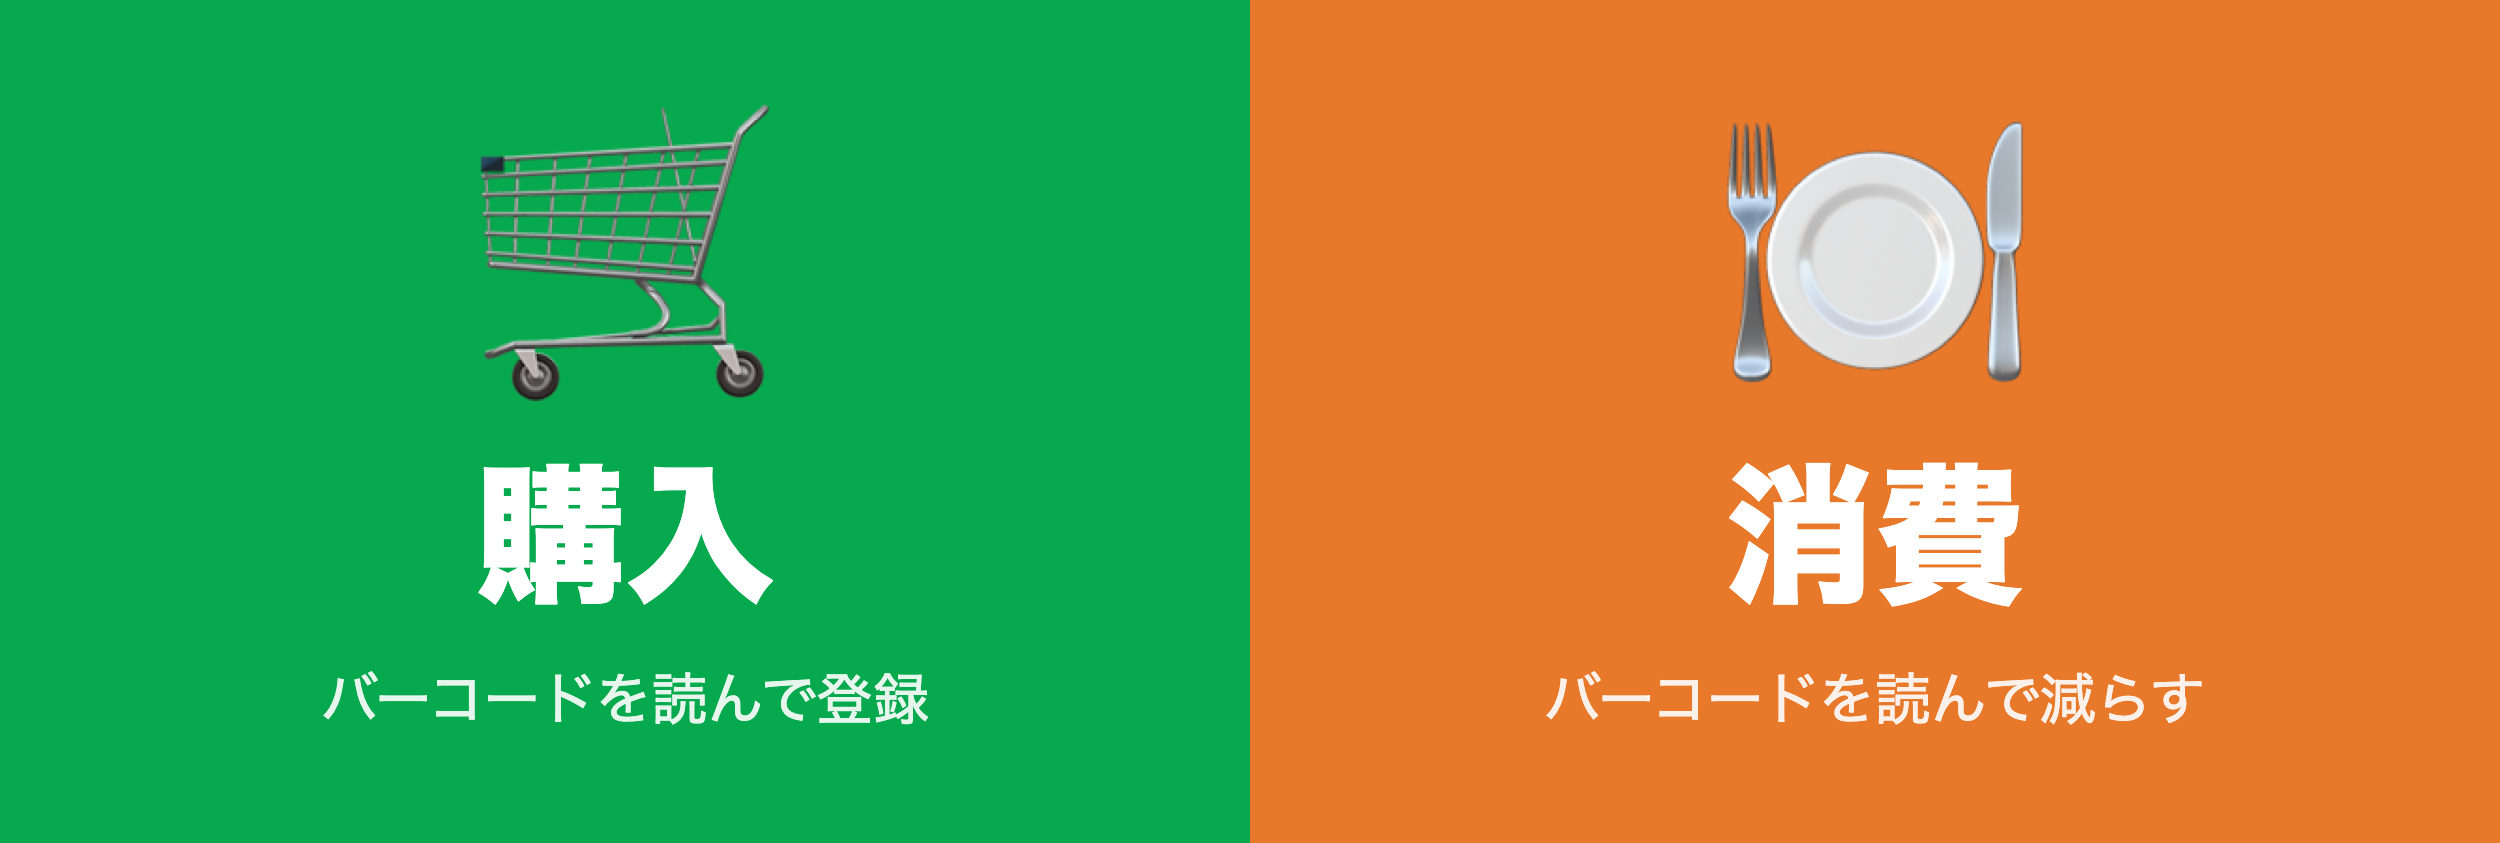
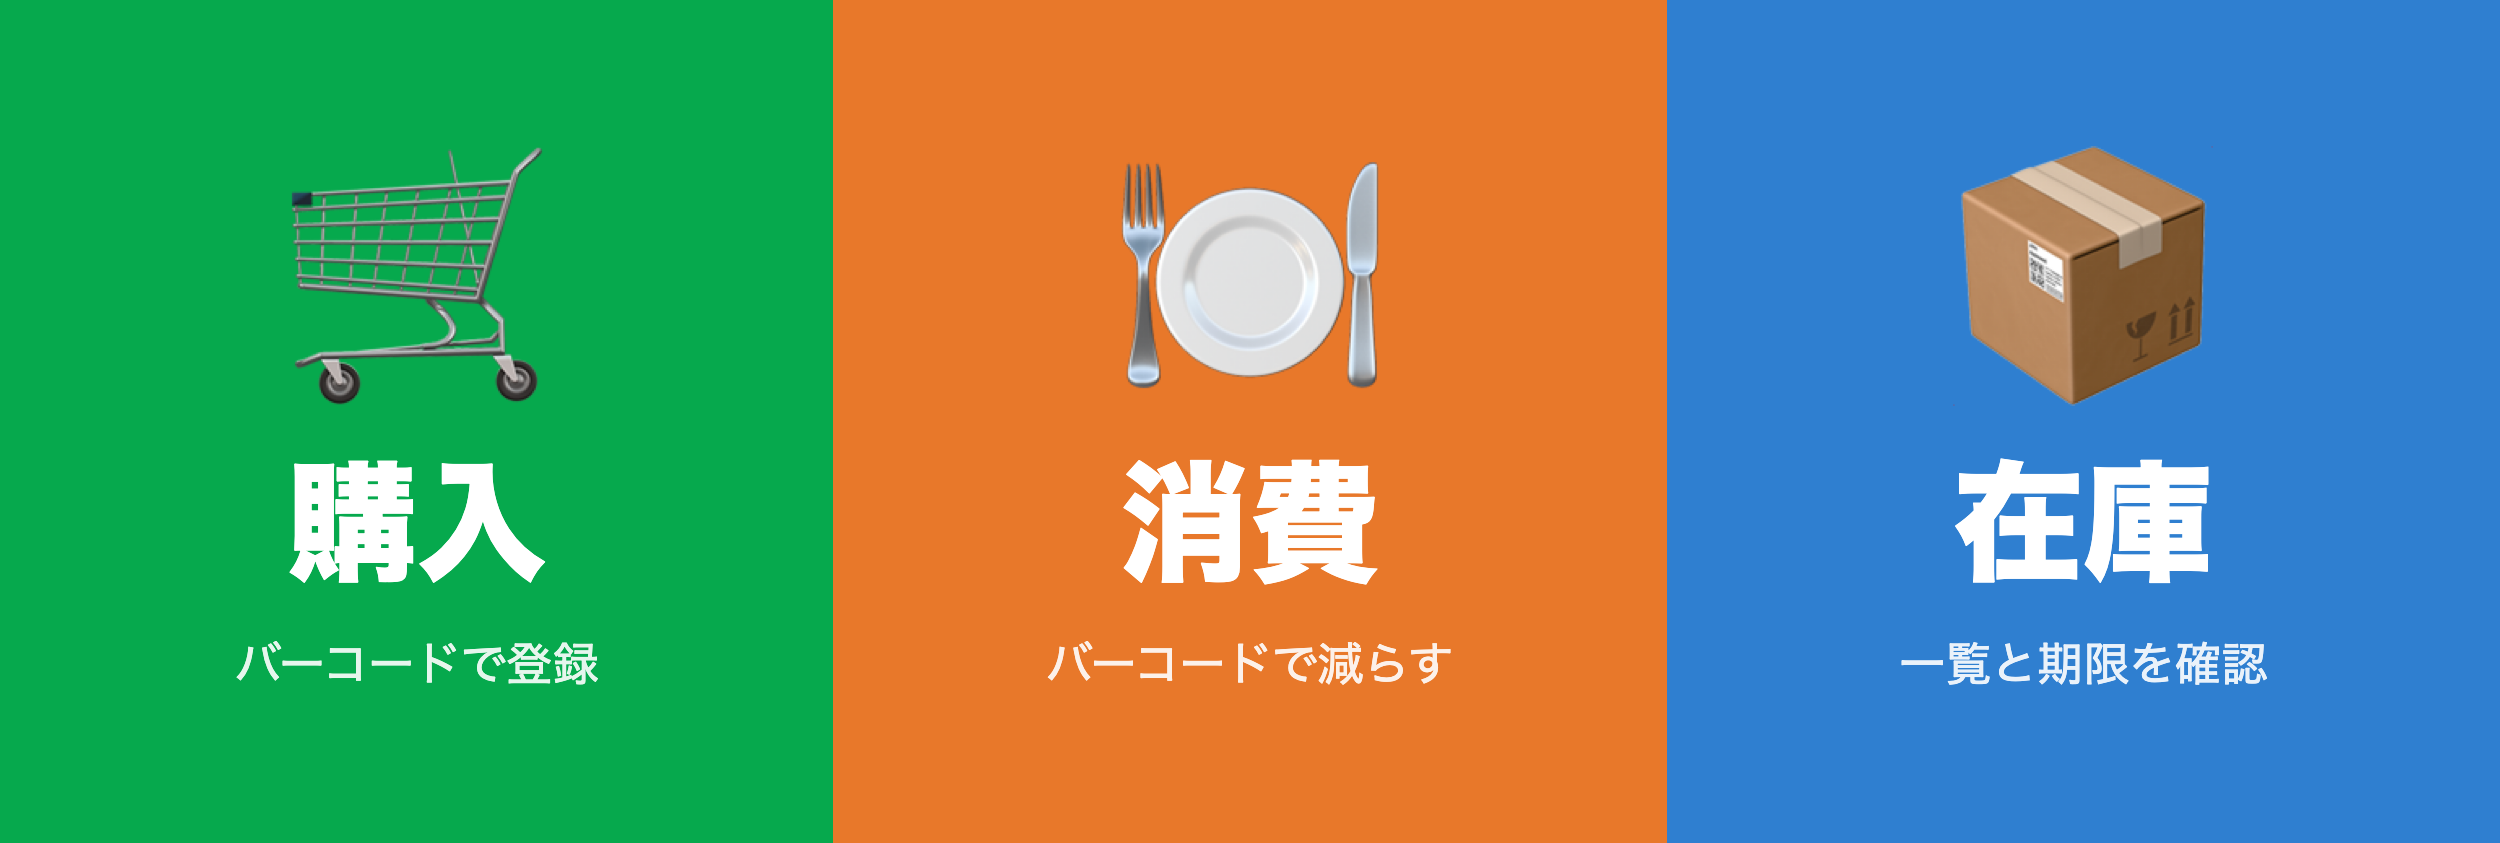
在庫一覧タブを追加(期限の近い順・絞り込み)、リッチメニューを3ボタン化

diff --git a/app.js b/app.js
@@ -2,7 +2,7 @@
   'use strict';
   var CFG = window.HJ_CONFIG;
   var $ = function (id) { return document.getElementById(id); };
-  var VIEWS = ['scanView', 'buyView', 'useView', 'doneView', 'errView'];
+  var VIEWS = ['scanView', 'buyView', 'useView', 'stockView', 'doneView', 'errView'];
 
   var mode = 'buy';
   var handling = false;
@@ -306,6 +306,40 @@
     });
   }
 
+  // ---------- 在庫一覧 ----------
+
+  function today() {
+    var d = new Date();
+    return d.getFullYear() + '/' + ('0' + (d.getMonth() + 1)).slice(-2) + '/' + ('0' + d.getDate()).slice(-2);
+  }
+
+  function renderStock() {
+    var q = norm($('stockSearch').value);
+    var t = today();
+    var limit = new Date(); limit.setDate(limit.getDate() + 30);
+    var soon = limit.getFullYear() + '/' + ('0' + (limit.getMonth() + 1)).slice(-2) + '/' + ('0' + limit.getDate()).slice(-2);
+    var list = items.filter(function (it) { return it.total > 0 && (!q || norm(it.name).indexOf(q) >= 0); })
+      .sort(function (a, b) { return a.lots[0].expiry < b.lots[0].expiry ? -1 : a.lots[0].expiry > b.lots[0].expiry ? 1 : 0; });
+    var sum = list.reduce(function (n, it) { return n + it.total; }, 0);
+    $('stockSummary').textContent = list.length + '品目・合計' + sum + '個(期限の近い順)';
+    $('stockList').innerHTML = list.map(function (it) {
+      return '<div class="stock"><div class="top"><span class="nm">' + esc(it.name) + '</span><span class="tt">' + it.total + '個</span></div>' +
+        it.lots.map(function (l) {
+          var cls = l.expiry < t ? ' over' : l.expiry <= soon ? ' soon' : '';
+          var tag = l.expiry < t ? '期限切れ ' : '';
+          return '<div class="lot' + cls + '"><span>' + tag + esc(l.expiry) + '</span><span>' + l.count + '個</span></div>';
+        }).join('') + '</div>';
+    }).join('') || '<div class="hint">該当する在庫はありません</div>';
+  }
+
+  function openStock() {
+    stopScan();
+    show('stockView');
+    $('stockSummary').textContent = '読み込み中…';
+    $('stockList').innerHTML = '';
+    loadItems().then(renderStock);
+  }
+
   // ---------- 共通 ----------
 
   function esc(s) {
@@ -331,8 +365,9 @@
     mode = m;
     $('tabBuy').classList.toggle('on', m === 'buy');
     $('tabUse').classList.toggle('on', m === 'use');
+    $('tabStock').classList.toggle('on', m === 'stock');
     stopScan();
-    startScan();
+    if (m === 'stock') openStock(); else startScan();
   }
 
   function closeApp() {
@@ -345,12 +380,14 @@
     if (!m && q.get('liff.state')) {
       m = new URLSearchParams(q.get('liff.state').replace(/^[^?]*\?/, '')).get('mode');
     }
-    return m === 'use' ? 'use' : 'buy';
+    return m === 'use' || m === 'stock' ? m : 'buy';
   }
 
   function bind() {
     $('tabBuy').onclick = function () { setMode('buy'); };
     $('tabUse').onclick = function () { setMode('use'); };
+    $('tabStock').onclick = function () { setMode('stock'); };
+    $('stockSearch').addEventListener('input', renderStock);
     $('manualBtn').onclick = function () {
       var code = $('manualJan').value.replace(/\D/g, '');
       if (!validJan(code)) return alert('JANコードが正しくありません(8/12/13桁)');

diff --git a/index.html b/index.html
@@ -41,6 +41,12 @@
   .sug button { display:flex; justify-content:space-between; gap:8px; width:100%; padding:12px; border:0; border-top:1px solid var(--line); background:#fff; font-size:15px; text-align:left; color:var(--ink); }
   .sug button:first-child { border-top:0; }
   .sug small { color:var(--sub); white-space:nowrap; }
+  .stock { background:#fff; border:1px solid var(--line); border-radius:12px; padding:12px 14px; margin-bottom:10px; }
+  .stock .top { display:flex; justify-content:space-between; gap:8px; align-items:baseline; }
+  .stock .nm { font-weight:700; font-size:16px; }
+  .stock .tt { font-weight:700; white-space:nowrap; }
+  .stock .lot { font-size:14px; color:var(--sub); margin-top:4px; display:flex; justify-content:space-between; }
+  .stock .lot.soon { color:#b26a00; } .stock .lot.over { color:var(--red); font-weight:600; }
   .hidden { display:none !important; }
 </style>
 </head>
@@ -49,6 +55,7 @@
   <div class="tabs">
     <button id="tabBuy" type="button">購入</button>
     <button id="tabUse" type="button">消費</button>
+    <button id="tabStock" type="button">在庫</button>
   </div>
 </header>
 <main>
@@ -101,6 +108,12 @@
     </div>
   </section>
 
+  <section id="stockView" class="hidden">
+    <input id="stockSearch" placeholder="商品名で絞り込み" autocomplete="off">
+    <div class="hint" id="stockSummary"></div>
+    <div id="stockList" style="margin-top:10px"></div>
+  </section>
+
   <section id="doneView" class="hidden">
     <div class="card msg">
       <div class="big" id="doneIcon">✅</div>
@@ -117,7 +130,7 @@
 
 <script src="https://static.line-scdn.net/liff/edge/2/sdk.js"></script>
 <script src="https://cdn.jsdelivr.net/npm/@zxing/library@0.21.3/umd/index.min.js"></script>
-<script src="config.js?v=8"></script>
-<script src="app.js?v=8"></script>
+<script src="config.js?v=9"></script>
+<script src="app.js?v=9"></script>
 </body>
 </html>

diff --git a/richmenu/menu.html b/richmenu/menu.html
@@ -4,10 +4,11 @@
   html,body { margin:0; width:2500px; height:843px; font-family:"Hiragino Sans","Hiragino Kaku Gothic ProN",sans-serif; }
   body { display:flex; }
   div { flex:1; display:flex; flex-direction:column; align-items:center; justify-content:center; color:#fff; }
-  .buy { background:#06a94d; } .use { background:#e8782a; }
-  .ico { font-size:300px; line-height:1; }
-  .t { font-size:150px; font-weight:800; margin-top:20px; }
-  .s { font-size:56px; opacity:.9; margin-top:10px; }
+  .buy { background:#06a94d; } .use { background:#e8782a; } .stk { background:#2f7fd0; }
+  .ico { font-size:260px; line-height:1; }
+  .t { font-size:130px; font-weight:800; margin-top:20px; }
+  .s { font-size:46px; opacity:.9; margin-top:10px; }
 </style>
-<div class="buy"><span class="ico">🛒</span><span class="t">購入</span><span class="s">バーコードを読んで登録</span></div>
-<div class="use"><span class="ico">🍽</span><span class="t">消費</span><span class="s">バーコードを読んで減らす</span></div>
+<div class="buy"><span class="ico">🛒</span><span class="t">購入</span><span class="s">バーコードで登録</span></div>
+<div class="use"><span class="ico">🍽</span><span class="t">消費</span><span class="s">バーコードで減らす</span></div>
+<div class="stk"><span class="ico">📦</span><span class="t">在庫</span><span class="s">一覧と期限を確認</span></div>
